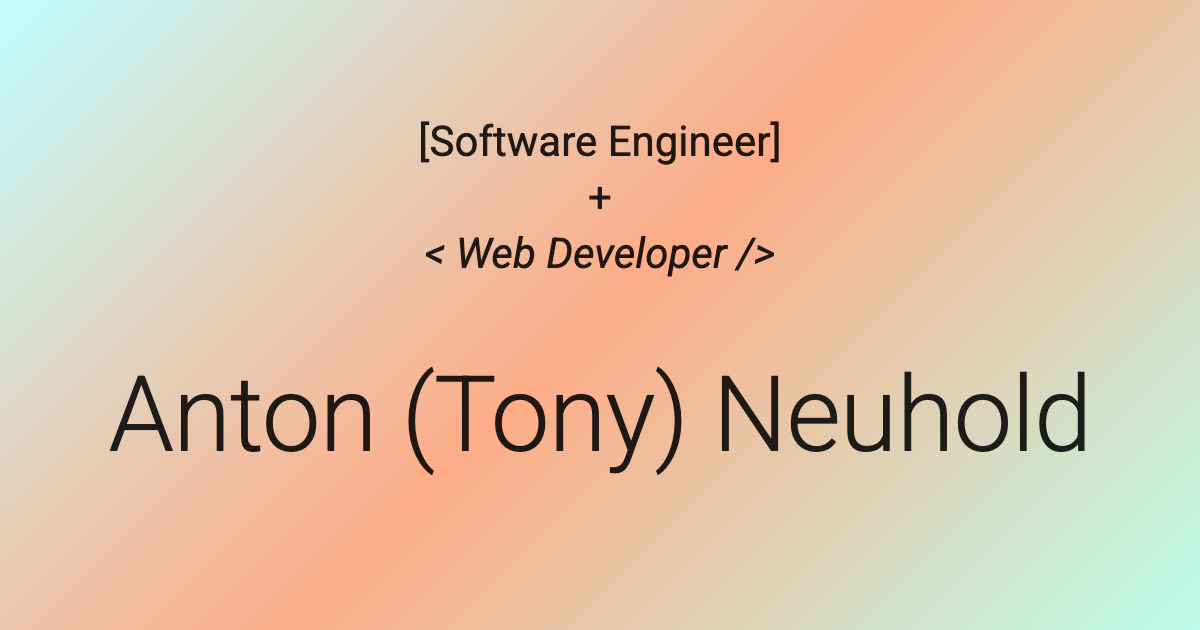
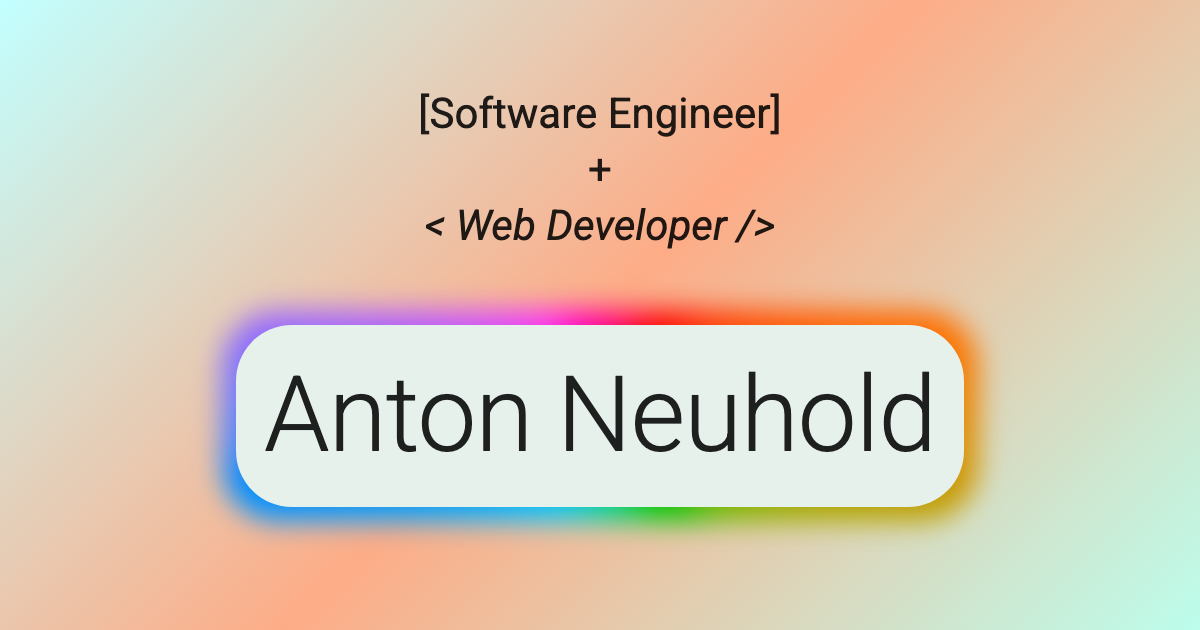
Update og-image

Changed region(s): [[0.0925, 0.1508, 0.925, 0.8746]]

diff --git a/scripts/og-image/index.html b/scripts/og-image/index.html
@@ -20,17 +20,44 @@
         src: url('../../svelte/static/fonts/roboto-latin-wght-italic.woff2') format('woff2');
       }
 
-      /* The Hero's type sizes are in rem, so a larger root font size scales the whole block up to
-         fill the image. */
-      html {
-        font-size: 28px;
+      /* Draws the Hero at 1.75 times the site's size: the rem-based type scales with the root font
+         size, and the spacing tokens scale with the site's 8px --standard-spacing. `:root` matches
+         the specificity of global.css, which this block follows in source order. */
+      :root {
+        --scale: 1.75;
+        --standard-spacing: calc(8px * var(--scale));
+        font-size: calc(16px * var(--scale));
       }
 
+      /* Centered items shrink to their content, so the name's card fits the width of the text. */
       body {
         display: flex;
         flex-direction: column;
+        align-items: center;
         justify-content: center;
         height: 100vh;
+      }
+
+      .header-2 {
+        position: relative;
+        padding: calc(var(--standard-spacing) * 2);
+        border-radius: calc(var(--radius-lg) * 2);
+        /* The tint the site's project cards use. */
+        background-color: color-mix(in oklab, var(--color-primary) 12%, var(--background));
+      }
+
+      /* A still frame of the hover glow in svelte/src/components/AnimatedBorderBackground.svelte:
+         the rainbow gradient, blurred, reaching one border width past the card on every side. The
+         card creates no stacking context, so the negative z-index puts the glow behind the card's
+         background. */
+      .header-2::before {
+        content: '';
+        position: absolute;
+        inset: calc(var(--standard-spacing) * -1);
+        z-index: -1;
+        border-radius: calc(var(--radius-lg) * 2);
+        background: var(--hdr-gradient);
+        filter: blur(var(--standard-spacing));
       }
     </style>
   </head>
@@ -40,6 +67,6 @@
       +<br />
       <i>&lt; Web Developer /&gt;</i>
     </p>
-    <h1 class="header-2">Anton (Tony) Neuhold</h1>
+    <h1 class="header-2">Anton Neuhold</h1>
   </body>
 </html>
